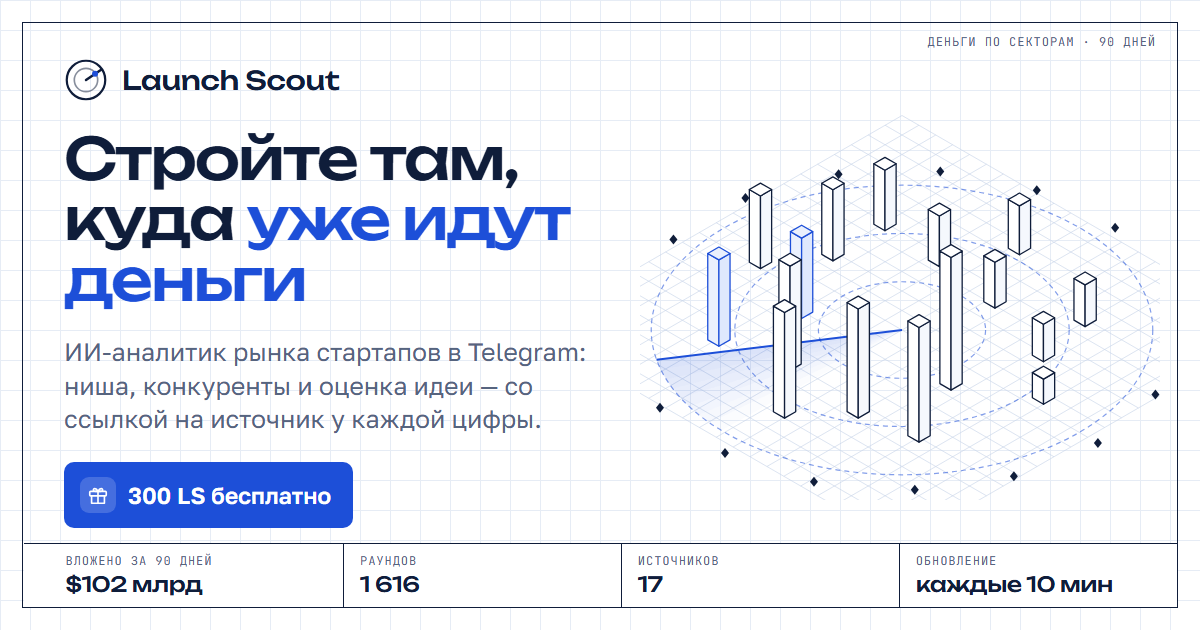
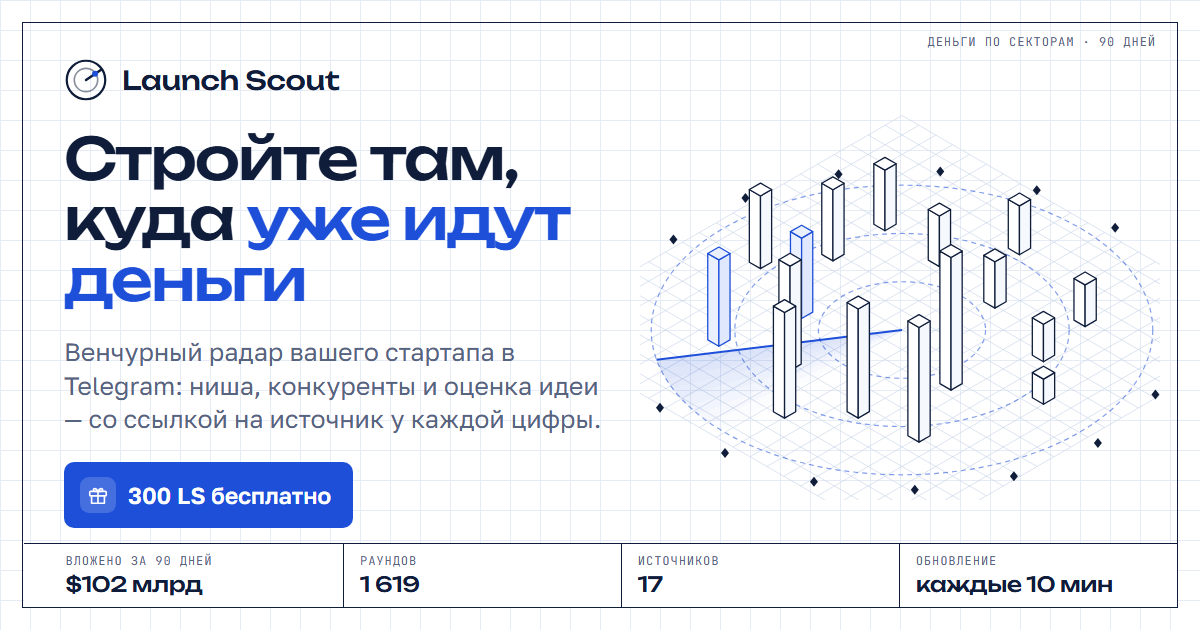
«Венчурный радар вашего стартапа» вместо «ИИ-аналитик»: бот, сайт, OG, QR

diff --git a/worker/src/index.js b/worker/src/index.js
@@ -223,7 +223,7 @@ async function tokenReminder(env, now) {
 const LANGS = ["ru", "kk", "en"];
 const I18N = {
   ru: {
-    hello: "<b>Launch Scout</b> — ИИ-аналитик рынка стартапов. Отвечает цифрами и ссылками, а не мнениями.\n\n<blockquote>📊 <b>%s раундов за полгода и %s ниш</b>\nСобираем каждые 10 минут из 17 источников: SEC, Crunchbase, TechCrunch, Y Combinator, X, Google Trends, пресс-релизы.</blockquote>\n\n<blockquote>🔎 <b>Живой поиск по вашему вопросу</b>\nЛюбая компания или идея — веб, X и Google Trends за секунды. Каждая цифра — со ссылкой на источник.</blockquote>\n\n<blockquote>🇰🇿 <b>Где пусто у нас</b>\nЧто уже получает деньги в мире, но ещё свободно в Казахстане и СНГ.</blockquote>\n\nСпросите что угодно — текстом или голосом 👇",
+    hello: "<b>Launch Scout</b> — венчурный радар вашего стартапа. Отвечает цифрами и ссылками, а не мнениями.\n\n<blockquote>📊 <b>%s раундов за полгода и %s ниш</b>\nСобираем каждые 10 минут из 17 источников: SEC, Crunchbase, TechCrunch, Y Combinator, X, Google Trends, пресс-релизы.</blockquote>\n\n<blockquote>🔎 <b>Живой поиск по вашему вопросу</b>\nЛюбая компания или идея — веб, X и Google Trends за секунды. Каждая цифра — со ссылкой на источник.</blockquote>\n\n<blockquote>🇰🇿 <b>Где пусто у нас</b>\nЧто уже получает деньги в мире, но ещё свободно в Казахстане и СНГ.</blockquote>\n\nСпросите что угодно — текстом или голосом 👇",
     kb_top: "🔥 Топ-10", kb_fresh: "🆕 За сутки", kb_trends: "📈 Тренды", kb_cats: "🗂 Категории", kb_app: "📱 Открыть приложение",
     empty: "Пока пусто: за это окно источники ничего не принесли.", no_more: "Больше нет.",
     next: "Дальше?", more10: "➡ Ещё 10", start_over: "🔄 В начало",
@@ -250,7 +250,7 @@ const I18N = {
     digest: "📋 <b>Сводка</b>",
   },
   kk: {
-    hello: "<b>Launch Scout</b> — стартаптар нарығының ЖИ-талдаушысы. Пікірмен емес, сандар мен сілтемелермен жауап береді.\n\n<blockquote>📊 <b>Жарты жылда %s раунд және %s тауаша</b>\nӘр 10 минут сайын 17 көзден жинаймыз: SEC, Crunchbase, TechCrunch, Y Combinator, X, Google Trends, баспасөз релиздері.</blockquote>\n\n<blockquote>🔎 <b>Сұрағыңыз бойынша тікелей іздеу</b>\nКез келген компания не идея — веб, X және Google Trends бірнеше секундта. Әр сан — дереккөз сілтемесімен.</blockquote>\n\n<blockquote>🇰🇿 <b>Бізде не бос</b>\nӘлемде ақша алып жатқан, бірақ Қазақстан мен ТМД-да әлі бос нәрселер.</blockquote>\n\nКез келген сұрақ қойыңыз — мәтінмен не дауыспен 👇",
+    hello: "<b>Launch Scout</b> — стартапыңыздың венчурлық радары. Пікірмен емес, сандар мен сілтемелермен жауап береді.\n\n<blockquote>📊 <b>Жарты жылда %s раунд және %s тауаша</b>\nӘр 10 минут сайын 17 көзден жинаймыз: SEC, Crunchbase, TechCrunch, Y Combinator, X, Google Trends, баспасөз релиздері.</blockquote>\n\n<blockquote>🔎 <b>Сұрағыңыз бойынша тікелей іздеу</b>\nКез келген компания не идея — веб, X және Google Trends бірнеше секундта. Әр сан — дереккөз сілтемесімен.</blockquote>\n\n<blockquote>🇰🇿 <b>Бізде не бос</b>\nӘлемде ақша алып жатқан, бірақ Қазақстан мен ТМД-да әлі бос нәрселер.</blockquote>\n\nКез келген сұрақ қойыңыз — мәтінмен не дауыспен 👇",
     kb_top: "🔥 Үздік 10", kb_fresh: "🆕 Тәулік ішінде", kb_trends: "📈 Трендтер", kb_cats: "🗂 Санаттар", kb_app: "📱 Қосымшаны ашу",
     empty: "Әзірге бос: осы уақыт аралығында көздер ештеңе әкелмеді.", no_more: "Басқа жоқ.",
     next: "Әрі қарай?", more10: "➡ Тағы 10", start_over: "🔄 Басына",
@@ -277,7 +277,7 @@ const I18N = {
     digest: "📋 <b>Шолу</b>",
   },
   en: {
-    hello: "<b>Launch Scout</b> — an AI analyst of the startup market. It answers with numbers and links, not opinions.\n\n<blockquote>📊 <b>%s rounds over six months and %s niches</b>\nCollected every 10 minutes from 17 sources: SEC, Crunchbase, TechCrunch, Y Combinator, X, Google Trends, press releases.</blockquote>\n\n<blockquote>🔎 <b>Live search for your question</b>\nAny company or idea — web, X and Google Trends in seconds. Every number links to its source.</blockquote>\n\n<blockquote>🇰🇿 <b>What is still free here</b>\nWhat already gets funded globally but is still empty in Kazakhstan and CIS.</blockquote>\n\nAsk anything — by text or voice 👇",
+    hello: "<b>Launch Scout</b> — the venture radar for your startup. It answers with numbers and links, not opinions.\n\n<blockquote>📊 <b>%s rounds over six months and %s niches</b>\nCollected every 10 minutes from 17 sources: SEC, Crunchbase, TechCrunch, Y Combinator, X, Google Trends, press releases.</blockquote>\n\n<blockquote>🔎 <b>Live search for your question</b>\nAny company or idea — web, X and Google Trends in seconds. Every number links to its source.</blockquote>\n\n<blockquote>🇰🇿 <b>What is still free here</b>\nWhat already gets funded globally but is still empty in Kazakhstan and CIS.</blockquote>\n\nAsk anything — by text or voice 👇",
     kb_top: "🔥 Top 10", kb_fresh: "🆕 Last 24h", kb_trends: "📈 Trends", kb_cats: "🗂 Categories", kb_app: "📱 Open the app",
     empty: "Nothing yet: the sources brought nothing in this window.", no_more: "No more.",
     next: "More?", more10: "➡ 10 more", start_over: "🔄 From the top",
@@ -333,7 +333,7 @@ const EXTRA = {
     searching_idea: "🔎 Ищу в интернете конкурентов для вашей идеи…",
     menu_hint: "Основные команды — в меню внизу 👇", menu_ph: "Спросите о рынке или идее…", check_ask: "🧪 Опишите идею одним сообщением — бот сначала попробует её опровергнуть фактами, потом скажет, стоит ли делать. Стоит 30 LS.", nf_on: "✅ Слежу", nf_off: "🔔 Следить",
     list_hint: "Нажмите номер — откроется полная карточка.",
-    fb_ask: "🐞 Расскажите, что не работает или чего не хватает — текстом или голосом. Это бесплатно, передам владельцу.", fb_thanks: "🙏 Спасибо! Передал владельцу — это правда помогает делать бота лучше.", kb_feedback: "🐞 Проблема или идея", kb_invite: "🤝 Пригласить друга", ref_text: "🤝 <b>Приглашайте друзей</b>\n\nКогда друг оформит любую подписку, вы оба получите <b>+%d LS</b> — они не сгорают.\n\nВаша ссылка:\n%s\n\nПриглашено: %d · оформили подписку: %d", ref_share: "📤 Отправить другу", ref_share_text: "Launch Scout — ИИ-аналитик рынка стартапов: куда идут деньги и какие ниши свободны", ref_paid_inviter: "🎉 Ваш друг оформил подписку — вам +%d LS, они не сгорают.", ref_paid_friend: "🎉 Вы пришли по приглашению — вам +%d LS в подарок, они не сгорают.", ex_3_answer: "🧪 <b>Как проверить идею</b>\n\nНапишите /check и одной фразой идею, например:\n<code>/check сервис доставки воды по подписке в Алматы</code>\n\nБот сначала попробует её <b>опровергнуть</b> фактами: конкуренты и их цены, жалобы клиентов, куда идут деньги в этой нише — и честно скажет, делать, делать узко или не делать. Потом — 3 шага проверки за 7 дней.",
+    fb_ask: "🐞 Расскажите, что не работает или чего не хватает — текстом или голосом. Это бесплатно, передам владельцу.", fb_thanks: "🙏 Спасибо! Передал владельцу — это правда помогает делать бота лучше.", kb_feedback: "🐞 Проблема или идея", kb_invite: "🤝 Пригласить друга", ref_text: "🤝 <b>Приглашайте друзей</b>\n\nКогда друг оформит любую подписку, вы оба получите <b>+%d LS</b> — они не сгорают.\n\nВаша ссылка:\n%s\n\nПриглашено: %d · оформили подписку: %d", ref_share: "📤 Отправить другу", ref_share_text: "Launch Scout — венчурный радар вашего стартапа: куда идут деньги и какие ниши свободны", ref_paid_inviter: "🎉 Ваш друг оформил подписку — вам +%d LS, они не сгорают.", ref_paid_friend: "🎉 Вы пришли по приглашению — вам +%d LS в подарок, они не сгорают.", ex_3_answer: "🧪 <b>Как проверить идею</b>\n\nНапишите /check и одной фразой идею, например:\n<code>/check сервис доставки воды по подписке в Алматы</code>\n\nБот сначала попробует её <b>опровергнуть</b> фактами: конкуренты и их цены, жалобы клиентов, куда идут деньги в этой нише — и честно скажет, делать, делать узко или не делать. Потом — 3 шага проверки за 7 дней.",
     about: "ℹ <b>Что умеет Launch Scout</b>\n\n<blockquote>💰 <b>Деньги — из первоисточников</b>\nSEC Form D (официальные заявки о раундах в США), Crunchbase News, TechCrunch, EU-Startups, пресс-релизы PR Newswire, Business Wire и GlobeNewswire, Google News на русском и английском.</blockquote>\n\n<blockquote>🚀 <b>Запуски и спрос</b>\nY Combinator, Product Hunt, Hacker News, GitHub, X; интерес людей — Google Trends; задачи компаний Казахстана — Astana Hub; найм и хакатоны.</blockquote>\n\n<blockquote>🧷 <b>Почему цифрам можно верить</b>\nКаждая цифра в ответе — со ссылкой. Ответ сверяется с фактами: строка с числом или компанией, которых нет в источниках, вырезается. Оценку компании не путаем с суммой раунда, новые находки проверяем по странице-источнику.</blockquote>\n\n<blockquote>🛠 <b>Что можно сделать</b>\nСпросить про любую компанию или нишу · /check — проверить идею · карта идеи и конкуренты одной кнопкой · следить за нишей и получать её новые раунды · /radar — ниши под ваш профиль · сводка дня.</blockquote>\n\n💳 Бесплатно — 300 LS в месяц (~30 вопросов). Тарифы — /balance.", small_talk: "👋 Я отвечаю на вопросы о рынке стартапов — цифрами и со ссылками. Спросите о компании, нише или идее, или нажмите вопрос ниже.", kb_about: "ℹ Что умеет",
     rq_market: "🎯 Подберу ниши под вас — два коротких вопроса.\n\n<b>1/2. Где запускаете?</b>", rq_model: "<b>2/2. Что строите?</b>", rq_kz: "🇰🇿 Казахстан", rq_cis: "🌍 СНГ", rq_global: "🌐 Весь мир", rq_unsure: "🤷 Пока не знаю", pf_title: "👤 <b>Ваш профиль</b> — по нему радар подбирает ниши, а чат — советы.", pf_chat: "<b>Из разговора бот понял:</b>", pf_hint: "Профиль сам пополняется из чата. Поправить — кнопками ниже.", pf_edit_m: "✏ Рынок", pf_edit_t: "✏ Что строю", pf_full: "⚙ Подробнее", pf_reset: "🧹 Сбросить",
     ex_title: "С чего начать? Нажмите вопрос или задайте свой — текстом или голосом.", ex_1: "💰 Куда сейчас идут деньги?", ex_2: "🇰🇿 Какие ниши свободны в Казахстане?", ex_3: "🧪 Как проверить мою идею?",
@@ -393,7 +393,7 @@ const EXTRA = {
     searching_idea: "🔎 Идеяңыздың бәсекелестерін интернеттен іздеп жатырмын…",
     menu_hint: "Негізгі командалар — төмендегі мәзірде 👇", menu_ph: "Нарық не идея туралы сұраңыз…", check_ask: "🧪 Идеяны бір хабарламамен сипаттаңыз — бот алдымен оны фактілермен жоққа шығаруға тырысады, сосын жасау керек пе, айтады. 30 LS.", nf_on: "✅ Бақылаудамын", nf_off: "🔔 Бақылау",
     list_hint: "Нөмірді басыңыз — толық карта ашылады.",
-    fb_ask: "🐞 Не жұмыс істемейтінін не неге жетпейтінін жазыңыз — мәтінмен не дауыспен. Бұл тегін, иесіне жеткіземін.", fb_thanks: "🙏 Рахмет! Иесіне жеткіздім — бұл ботты жақсартуға шын көмектеседі.", kb_feedback: "🐞 Қате не ұсыныс", kb_invite: "🤝 Досты шақыру", ref_text: "🤝 <b>Достарыңызды шақырыңыз</b>\n\nДосыңыз кез келген жазылымды рәсімдегенде, екеуіңіз де <b>+%d LS</b> аласыздар — олар күймейді.\n\nСіздің сілтемеңіз:\n%s\n\nШақырылды: %d · жазылым рәсімдеді: %d", ref_share: "📤 Досқа жіберу", ref_share_text: "Launch Scout — стартаптар нарығының ЖИ-талдаушысы", ref_paid_inviter: "🎉 Досыңыз жазылым рәсімдеді — сізге +%d LS, олар күймейді.", ref_paid_friend: "🎉 Сіз шақыру бойынша келдіңіз — сізге +%d LS сыйлық, олар күймейді.", ex_3_answer: "🧪 <b>Идеяны қалай тексеру</b>\n\n/check деп жазып, идеяны бір сөйлеммен қосыңыз, мысалы:\n<code>/check Алматыда жазылыммен су жеткізу</code>\n\nБот алдымен оны фактілермен <b>жоққа шығаруға</b> тырысады: бәсекелестер мен бағалар, клиент шағымдары, тауашаға ақша қайда барады — және адал айтады: жасау, тар жасау не жасамау. Кейін — 7 күнде тексерудің 3 қадамы.",
+    fb_ask: "🐞 Не жұмыс істемейтінін не неге жетпейтінін жазыңыз — мәтінмен не дауыспен. Бұл тегін, иесіне жеткіземін.", fb_thanks: "🙏 Рахмет! Иесіне жеткіздім — бұл ботты жақсартуға шын көмектеседі.", kb_feedback: "🐞 Қате не ұсыныс", kb_invite: "🤝 Досты шақыру", ref_text: "🤝 <b>Достарыңызды шақырыңыз</b>\n\nДосыңыз кез келген жазылымды рәсімдегенде, екеуіңіз де <b>+%d LS</b> аласыздар — олар күймейді.\n\nСіздің сілтемеңіз:\n%s\n\nШақырылды: %d · жазылым рәсімдеді: %d", ref_share: "📤 Досқа жіберу", ref_share_text: "Launch Scout — стартапыңыздың венчурлық радары", ref_paid_inviter: "🎉 Досыңыз жазылым рәсімдеді — сізге +%d LS, олар күймейді.", ref_paid_friend: "🎉 Сіз шақыру бойынша келдіңіз — сізге +%d LS сыйлық, олар күймейді.", ex_3_answer: "🧪 <b>Идеяны қалай тексеру</b>\n\n/check деп жазып, идеяны бір сөйлеммен қосыңыз, мысалы:\n<code>/check Алматыда жазылыммен су жеткізу</code>\n\nБот алдымен оны фактілермен <b>жоққа шығаруға</b> тырысады: бәсекелестер мен бағалар, клиент шағымдары, тауашаға ақша қайда барады — және адал айтады: жасау, тар жасау не жасамау. Кейін — 7 күнде тексерудің 3 қадамы.",
     about: "ℹ <b>Launch Scout не істей алады</b>\n\n<blockquote>💰 <b>Ақша — бастапқы көздерден</b>\nSEC Form D (АҚШ-тағы раундтар туралы ресми өтінімдер), Crunchbase News, TechCrunch, EU-Startups, PR Newswire, Business Wire, GlobeNewswire баспасөз релиздері, орыс және ағылшын тіліндегі Google News.</blockquote>\n\n<blockquote>🚀 <b>Іске қосулар және сұраныс</b>\nY Combinator, Product Hunt, Hacker News, GitHub, X; адамдардың қызығушылығы — Google Trends; Қазақстан компанияларының тапсырмалары — Astana Hub; жалдау және хакатондар.</blockquote>\n\n<blockquote>🧷 <b>Неге сандарға сенуге болады</b>\nЖауаптағы әр сан — сілтемемен. Жауап фактілермен тексеріледі: дереккөзде жоқ сан не компания бар жол алынып тасталады. Компания бағасын раунд сомасымен шатастырмаймыз.</blockquote>\n\n<blockquote>🛠 <b>Не істеуге болады</b>\nКез келген компания не тауаша туралы сұрау · /check — идеяны тексеру · идея картасы және бәсекелестер · тауашаны бақылау · /radar — профиліңізге тауашалар · күнделікті шолу.</blockquote>\n\n💳 Тегін — айына 300 LS (~30 сұрақ). Тарифтер — /balance.", small_talk: "👋 Мен стартаптар нарығы туралы сұрақтарға сандармен және сілтемелермен жауап беремін. Компания, тауаша не идея туралы сұраңыз немесе төмендегі сұрақты басыңыз.", kb_about: "ℹ Не істей алады",
     rq_market: "🎯 Сізге тауашаларды таңдаймын — екі қысқа сұрақ.\n\n<b>1/2. Қай жерде іске қосасыз?</b>", rq_model: "<b>2/2. Не жасап жатырсыз?</b>", rq_kz: "🇰🇿 Қазақстан", rq_cis: "🌍 ТМД", rq_global: "🌐 Бүкіл әлем", rq_unsure: "🤷 Әзірге білмеймін", pf_title: "👤 <b>Сіздің профиліңіз</b> — радар тауашаларды, чат кеңестерді осы бойынша таңдайды.", pf_chat: "<b>Әңгімеден бот түсінгені:</b>", pf_hint: "Профиль чаттан өзі толығады. Түзету — төмендегі батырмалармен.", pf_edit_m: "✏ Нарық", pf_edit_t: "✏ Не жасаймын", pf_full: "⚙ Толығырақ", pf_reset: "🧹 Тазарту",
     ex_title: "Неден бастаймыз? Сұрақты басыңыз немесе өзіңіздікін қойыңыз — мәтінмен не дауыспен.", ex_1: "💰 Қазір ақша қайда барады?", ex_2: "🇰🇿 Қазақстанда қай тауашалар бос?", ex_3: "🧪 Идеямды қалай тексеремін?",
@@ -453,7 +453,7 @@ const EXTRA = {
     searching_idea: "🔎 Searching the web for competitors of your idea…",
     menu_hint: "Main commands are in the menu below 👇", menu_ph: "Ask about the market or an idea…", check_ask: "🧪 Describe your idea in one message — the bot first tries to disprove it with facts, then says whether it's worth doing. Costs 30 LS.", nf_on: "✅ Following", nf_off: "🔔 Follow",
     list_hint: "Tap a number to open the full card.",
-    fb_ask: "🐞 Tell me what is broken or missing — by text or voice. It's free; I'll pass it to the owner.", fb_thanks: "🙏 Thanks! Passed to the owner — it really helps make the bot better.", kb_feedback: "🐞 Bug or idea", kb_invite: "🤝 Invite a friend", ref_text: "🤝 <b>Invite friends</b>\n\nWhen a friend subscribes to any plan, you both get <b>+%d LS</b> — they never expire.\n\nYour link:\n%s\n\nInvited: %d · subscribed: %d", ref_share: "📤 Send to a friend", ref_share_text: "Launch Scout — an AI analyst of the startup market", ref_paid_inviter: "🎉 Your friend subscribed — you get +%d LS, they never expire.", ref_paid_friend: "🎉 You came by invitation — here are +%d LS, they never expire.", ex_3_answer: "🧪 <b>How to check an idea</b>\n\nType /check and your idea in one sentence, e.g.:\n<code>/check water delivery subscription in Almaty</code>\n\nThe bot first tries to <b>disprove</b> it with facts: competitors and prices, customer complaints, where the money goes in the niche — then says honestly: do it, do it narrow, or don't. Then 3 steps to test it in 7 days.",
+    fb_ask: "🐞 Tell me what is broken or missing — by text or voice. It's free; I'll pass it to the owner.", fb_thanks: "🙏 Thanks! Passed to the owner — it really helps make the bot better.", kb_feedback: "🐞 Bug or idea", kb_invite: "🤝 Invite a friend", ref_text: "🤝 <b>Invite friends</b>\n\nWhen a friend subscribes to any plan, you both get <b>+%d LS</b> — they never expire.\n\nYour link:\n%s\n\nInvited: %d · subscribed: %d", ref_share: "📤 Send to a friend", ref_share_text: "Launch Scout — the venture radar for your startup", ref_paid_inviter: "🎉 Your friend subscribed — you get +%d LS, they never expire.", ref_paid_friend: "🎉 You came by invitation — here are +%d LS, they never expire.", ex_3_answer: "🧪 <b>How to check an idea</b>\n\nType /check and your idea in one sentence, e.g.:\n<code>/check water delivery subscription in Almaty</code>\n\nThe bot first tries to <b>disprove</b> it with facts: competitors and prices, customer complaints, where the money goes in the niche — then says honestly: do it, do it narrow, or don't. Then 3 steps to test it in 7 days.",
     about: "ℹ <b>What Launch Scout can do</b>\n\n<blockquote>💰 <b>Money — from primary sources</b>\nSEC Form D (official US round filings), Crunchbase News, TechCrunch, EU-Startups, press releases from PR Newswire, Business Wire and GlobeNewswire, Google News in Russian and English.</blockquote>\n\n<blockquote>🚀 <b>Launches and demand</b>\nY Combinator, Product Hunt, Hacker News, GitHub, X; what people search — Google Trends; tasks from Kazakhstan companies — Astana Hub; hiring and hackathons.</blockquote>\n\n<blockquote>🧷 <b>Why you can trust the numbers</b>\nEvery number links to its source. Answers are checked against the facts: a line with a number or company not found in the sources is removed. We never mistake a valuation for a round; new findings are verified on the source page.</blockquote>\n\n<blockquote>🛠 <b>What you can do</b>\nAsk about any company or niche · /check — test an idea · idea map and competitors in one tap · follow a niche and get its new rounds · /radar — niches for your profile · daily brief.</blockquote>\n\n💳 Free — 300 LS a month (~30 questions). Plans — /balance.", small_talk: "👋 I answer questions about the startup market — with numbers and links. Ask about a company, niche or idea, or tap a question below.", kb_about: "ℹ What it can do",
     rq_market: "🎯 I'll pick niches for you — two quick questions.\n\n<b>1/2. Where are you launching?</b>", rq_model: "<b>2/2. What are you building?</b>", rq_kz: "🇰🇿 Kazakhstan", rq_cis: "🌍 CIS", rq_global: "🌐 Worldwide", rq_unsure: "🤷 Not sure yet", pf_title: "👤 <b>Your profile</b> — the radar picks niches and the chat tailors advice from it.", pf_chat: "<b>From the conversation the bot understood:</b>", pf_hint: "The profile updates itself from the chat. Fix it with the buttons below.", pf_edit_m: "✏ Market", pf_edit_t: "✏ What I build", pf_full: "⚙ More", pf_reset: "🧹 Reset",
     ex_title: "Where to start? Tap a question or ask your own — by text or voice.", ex_1: "💰 Where is the money going now?", ex_2: "🇰🇿 Which niches are free in Kazakhstan?", ex_3: "🧪 How do I check my idea?",

diff --git a/site/src.html b/site/src.html
@@ -1,17 +1,17 @@
 <title>Launch Scout</title>
-<meta name="description" content="ИИ-аналитик рынка стартапов в Telegram: куда идут деньги, какие ниши свободны, взлетит ли идея. 300 LS бесплатно.">
+<meta name="description" content="Венчурный радар вашего стартапа в Telegram: куда идут деньги, какие ниши свободны, взлетит ли идея. 300 LS бесплатно.">
 <meta property="og:type" content="website">
 <meta property="og:site_name" content="Launch Scout">
 <meta property="og:title" content="Launch Scout — стройте там, куда уже идут деньги">
-<meta property="og:description" content="ИИ-аналитик рынка стартапов в Telegram: ниша, конкуренты и оценка идеи за 10 секунд. Свой датасет из 17 источников, обновление каждые 10 минут. 300 LS бесплатно.">
+<meta property="og:description" content="Венчурный радар вашего стартапа в Telegram: ниша, конкуренты и оценка идеи за 10 секунд. Свой датасет из 17 источников, обновление каждые 10 минут. 300 LS бесплатно.">
 <meta property="og:url" content="https://launch-scout-site.pages.dev/">
-<meta property="og:image" content="https://launch-scout-site.pages.dev/og.png">
+<meta property="og:image" content="https://launch-scout-site.pages.dev/og.png?v=2">
 <meta property="og:image:width" content="1200">
 <meta property="og:image:height" content="630">
 <meta property="og:image:alt" content="Launch Scout: деньги по секторам за 90 дней, 3D-радар рынка">
 <meta property="og:locale" content="ru_RU">
 <meta name="twitter:card" content="summary_large_image">
-<meta name="twitter:image" content="https://launch-scout-site.pages.dev/og.png">
+<meta name="twitter:image" content="https://launch-scout-site.pages.dev/og.png?v=2">
 <link rel="preconnect" href="https://fonts.googleapis.com">
 <link rel="preconnect" href="https://fonts.gstatic.com" crossorigin>
 <link rel="stylesheet" href="https://fonts.googleapis.com/css2?family=Unbounded:wght@400;500;700&family=Golos+Text:wght@400;500;600&family=JetBrains+Mono:wght@400;500&display=swap">
@@ -502,7 +502,7 @@ section.sheet { padding-block: 76px; }
         <div class="rev"><span id="liveTxt">Рев. 01.10.2026</span><span>Пересчёт каждые 10 мин</span></div>
         <h1>Стройте там, куда <em>уже идут деньги</em></h1>
         <p class="lead d-only">За 90 дней инвесторы вложили <b data-k="usd90">$101 млрд</b> в <b data-k="rounds90">1 601</b> стартап. Launch Scout видит каждый раунд и за 10 секунд отвечает в Telegram: какую нишу брать, кто в ней уже есть и взлетит ли ваша идея.</p>
-        <p class="lead m-only">Видит каждый раунд в мире и за 10 секунд отвечает в Telegram: какую нишу брать и взлетит ли идея.</p>
+        <p class="lead m-only">Венчурный радар вашего стартапа: видит каждый раунд в мире и за 10 секунд отвечает в Telegram: какую нишу брать и взлетит ли идея.</p>
         <div style="display:grid;gap:12px;justify-items:start">
           <a class="btn gift" href="https://t.me/Launch_Scout_bot?start=site" target="_blank" rel="noopener"><span class="box"><svg><use href="#giftic"/></svg></span><span>Нажмите и получите <b>300 LS бесплатно</b></span></a>
           <div class="gift-sub mono"><span>≈ 30 ответов</span><span>без карты</span><span>прямо в Telegram</span></div>
@@ -581,7 +581,7 @@ section.sheet { padding-block: 76px; }
       <div class="demo-copy">
         <div >
           <div class="k mono"><i></i>Как это выглядит</div>
-          <h2>Спросите как у&nbsp;своего аналитика</h2>
+          <h2>Спросите свой венчурный радар</h2>
         </div>
         <div class="tabs" role="tablist" aria-label="Примеры вопросов">
           <button class="tab" role="tab" id="t0" aria-selected="true"><span class="ic"><svg><use href="#i-coin"/></svg></span><span><b>Куда идут деньги?</b><small>Ниша, суммы, свежие сделки</small></span><i class="prog"></i></button>
@@ -591,7 +591,7 @@ section.sheet { padding-block: 76px; }
       </div>
       <div class="phone-wrap">
         <div class="phone" aria-live="polite">
-          <div class="tg-head"><div class="av"><svg viewBox="0 0 32 32"><circle cx="16" cy="16" r="13" fill="none" stroke="currentColor" stroke-width="1.6"/><path d="M16 16 L26 9" stroke="currentColor" stroke-width="1.8" stroke-linecap="round"/><circle cx="22" cy="11.6" r="2.2" fill="#5b84f0"/></svg></div><div><b>Launch Scout</b><small id="tgStatus">ИИ-аналитик</small></div></div>
+          <div class="tg-head"><div class="av"><svg viewBox="0 0 32 32"><circle cx="16" cy="16" r="13" fill="none" stroke="currentColor" stroke-width="1.6"/><path d="M16 16 L26 9" stroke="currentColor" stroke-width="1.8" stroke-linecap="round"/><circle cx="22" cy="11.6" r="2.2" fill="#5b84f0"/></svg></div><div><b>Launch Scout</b><small id="tgStatus">венчурный радар</small></div></div>
           <div class="tg-body" id="chat"><!--CHAT--></div>
         </div>
         <div class="mono example-note">Пример ответа · цифры из базы Launch Scout на 1 октября</div>
@@ -617,7 +617,7 @@ section.sheet { padding-block: 76px; }
         </div>
         <ol class="steps3" id="steps3">
           <li><b>Модель пишет черновик</b><span>Ответ собирается из фактов базы и веба.</span></li>
-          <li><b>Аналитик ищет каждую цифру в источниках</b><span>Суммы, проценты, названия компаний.</span></li>
+          <li><b>Радар ищет каждую цифру в источниках</b><span>Суммы, проценты, названия компаний.</span></li>
           <li class="on"><b>Без источника — строка удаляется</b><span>До того, как вы её увидите. Крупные суммы — только если их подтвердили 3 издания.</span></li>
         </ol>
       </div>
@@ -665,9 +665,9 @@ section.sheet { padding-block: 76px; }
         <p>Цена каждого действия видна заранее, в LS — внутренней валюте сервиса.</p>
       </div>
       <div class="feats">
-        <article class="feat"><svg viewBox="0 0 32 32" fill="none" stroke="currentColor" stroke-width="1.5"><circle cx="16" cy="16" r="12"/><circle cx="16" cy="16" r="6"/><path d="M16 16 25 9" stroke-linecap="round"/><circle cx="22" cy="11" r="1.6" fill="currentColor"/></svg><h3>Радар под вас</h3><p>Два вопроса о рынке и модели — и аналитик подбирает ниши, которые вам по силам.</p><span class="price free">БЕСПЛАТНО</span></article>
+        <article class="feat"><svg viewBox="0 0 32 32" fill="none" stroke="currentColor" stroke-width="1.5"><circle cx="16" cy="16" r="12"/><circle cx="16" cy="16" r="6"/><path d="M16 16 25 9" stroke-linecap="round"/><circle cx="22" cy="11" r="1.6" fill="currentColor"/></svg><h3>Радар под вас</h3><p>Два вопроса о рынке и модели — и радар подбирает ниши, которые вам по силам.</p><span class="price free">БЕСПЛАТНО</span></article>
         <article class="feat"><svg viewBox="0 0 32 32" fill="none" stroke="currentColor" stroke-width="1.5"><rect x="12" y="4" width="8" height="15" rx="4"/><path d="M8 15a8 8 0 0 0 16 0M16 23v5" stroke-linecap="round"/></svg><h3>Вопрос текстом или голосом</h3><p>Про нишу, компанию или инвестора. Ответ за 5–10 секунд.</p><span class="price">10 LS</span></article>
-        <article class="feat"><svg viewBox="0 0 32 32" fill="none" stroke="currentColor" stroke-width="1.5"><circle cx="16" cy="16" r="12"/><path d="M4 16h24M16 4c4 3.5 4 20.5 0 24M16 4c-4 3.5-4 20.5 0 24"/></svg><h3>Живой поиск</h3><p>Нет в базе — аналитик ищет прямо сейчас: веб, Hacker News, GitHub.</p><span class="price">40 LS</span></article>
+        <article class="feat"><svg viewBox="0 0 32 32" fill="none" stroke="currentColor" stroke-width="1.5"><circle cx="16" cy="16" r="12"/><path d="M4 16h24M16 4c4 3.5 4 20.5 0 24M16 4c-4 3.5-4 20.5 0 24"/></svg><h3>Живой поиск</h3><p>Нет в базе — радар ищет прямо сейчас: веб, Hacker News, GitHub.</p><span class="price">40 LS</span></article>
         <article class="feat"><svg viewBox="0 0 32 32" fill="none" stroke="currentColor" stroke-width="1.5" stroke-linejoin="round"><path d="M4 8l8-3 8 3 8-3v19l-8 3-8-3-8 3z"/><path d="M12 5v19M20 8v19"/></svg><h3>Карта идеи</h3><p>Сегменты, деньги, конкуренты и первый шаг на одном экране.</p><span class="price">20 LS</span></article>
         <article class="feat"><svg viewBox="0 0 32 32" fill="none" stroke="currentColor" stroke-width="1.5"><path d="M6 27V9M6 9h14l-3 4 3 4H6" stroke-linejoin="round"/><path d="M24 27v-8M16 27v-5" stroke-linecap="round"/></svg><h3>Конкуренты</h3><p>Кто уже в нише, сколько привлёк и где у него слабое место.</p><span class="price">20 LS</span></article>
         <article class="feat"><svg viewBox="0 0 32 32" fill="none" stroke="currentColor" stroke-width="1.5"><path d="M16 4 27 8v8c0 6-5 10-11 12C10 26 5 22 5 16V8z" stroke-linejoin="round"/><path d="m11 16 4 4 6-8" stroke-linecap="round" stroke-linejoin="round"/></svg><h3>Проверка идеи</h3><p>Сначала пытается опровергнуть фактами, потом даёт план проверки на 7 дней.</p><span class="price">30 LS</span></article>

diff --git a/site/og.html b/site/og.html
@@ -38,7 +38,7 @@ h1 em { font-style: normal; color: var(--blue); }
 <div class="left">
   <div class="brand"><svg viewBox="0 0 32 32"><circle cx="16" cy="16" r="14" fill="none" stroke="#0f1d3a" stroke-width="1.6"/><circle cx="16" cy="16" r="8.5" fill="none" stroke="#0f1d3a" stroke-width="1.2" opacity=".5"/><path d="M16 16 L27 8.5" stroke="#0f1d3a" stroke-width="1.8" stroke-linecap="round"/><circle cx="22.6" cy="11.4" r="2.2" fill="#1d4fd8"/></svg>Launch Scout</div>
   <h1>Стройте там, куда <em>уже идут деньги</em></h1>
-  <p class="sub">ИИ-аналитик рынка стартапов в Telegram: ниша, конкуренты и оценка идеи — со ссылкой на источник у каждой цифры.</p>
+  <p class="sub">Венчурный радар вашего стартапа в Telegram: ниша, конкуренты и оценка идеи — со ссылкой на источник у каждой цифры.</p>
   <span class="gift"><i><svg viewBox="0 0 24 24"><g fill="none" stroke="#fff" stroke-width="1.8" stroke-linejoin="round"><rect x="3" y="8" width="18" height="5" rx="1"/><path d="M5 13v8h14v-8M12 8v13"/><path d="M12 8C10 4 6.5 4.5 7 7c.3 1 2 1 5 1Zm0 0c2-4 5.5-3.5 5-1-.3 1-2 1-5 1Z"/></g></svg></i>300 LS бесплатно</span>
 </div>
 <svg id="radar" viewBox="0 0 520 470"></svg>

diff --git a/site/qr/qr_card.html b/site/qr/qr_card.html
@@ -43,7 +43,7 @@ h1 em { font-style: normal; color: var(--blue); }
 <div class="frame"></div>
 <div class="top">
   <div class="brand"><svg viewBox="0 0 32 32"><circle cx="16" cy="16" r="14" fill="none" stroke="#0f1d3a" stroke-width="1.6"/><circle cx="16" cy="16" r="8.5" fill="none" stroke="#0f1d3a" stroke-width="1.2" opacity=".5"/><path d="M16 16 L27 8.5" stroke="#0f1d3a" stroke-width="1.8" stroke-linecap="round"/><circle cx="22.6" cy="11.4" r="2.2" fill="#1d4fd8"/></svg>Launch Scout</div>
-  <h1>ИИ-аналитик рынка <em>для стартапов</em></h1>
+  <h1>Венчурный радар <em>вашего стартапа</em></h1>
 </div>
 <div class="qrbox"><i class="tick a"></i><i class="tick b"></i><i class="tick c"></i><i class="tick d"></i>__QR__</div>
 <div class="scan">Наведите камеру телефона</div>

diff --git a/site/site.js b/site/site.js
@@ -202,7 +202,7 @@
       }
       chat.insertAdjacentHTML("beforeend", KB.replace('class="kb"', 'class="kb wait"'));
       await sleep(60); const kb = chat.querySelector(".kb"); if (kb) kb.classList.remove("wait");
-      status.textContent = "ИИ-аналитик";
+      status.textContent = "венчурный радар";
       tabs[i].style.setProperty("--dur", "6.3s");
       const prog = tabs[i].querySelector(".prog"); void prog.offsetWidth; prog.classList.add("run");
       clearTimeout(autoT); autoT = setTimeout(() => { if (id === run) play((i + 1) % DEMOS.length); }, 6300);
